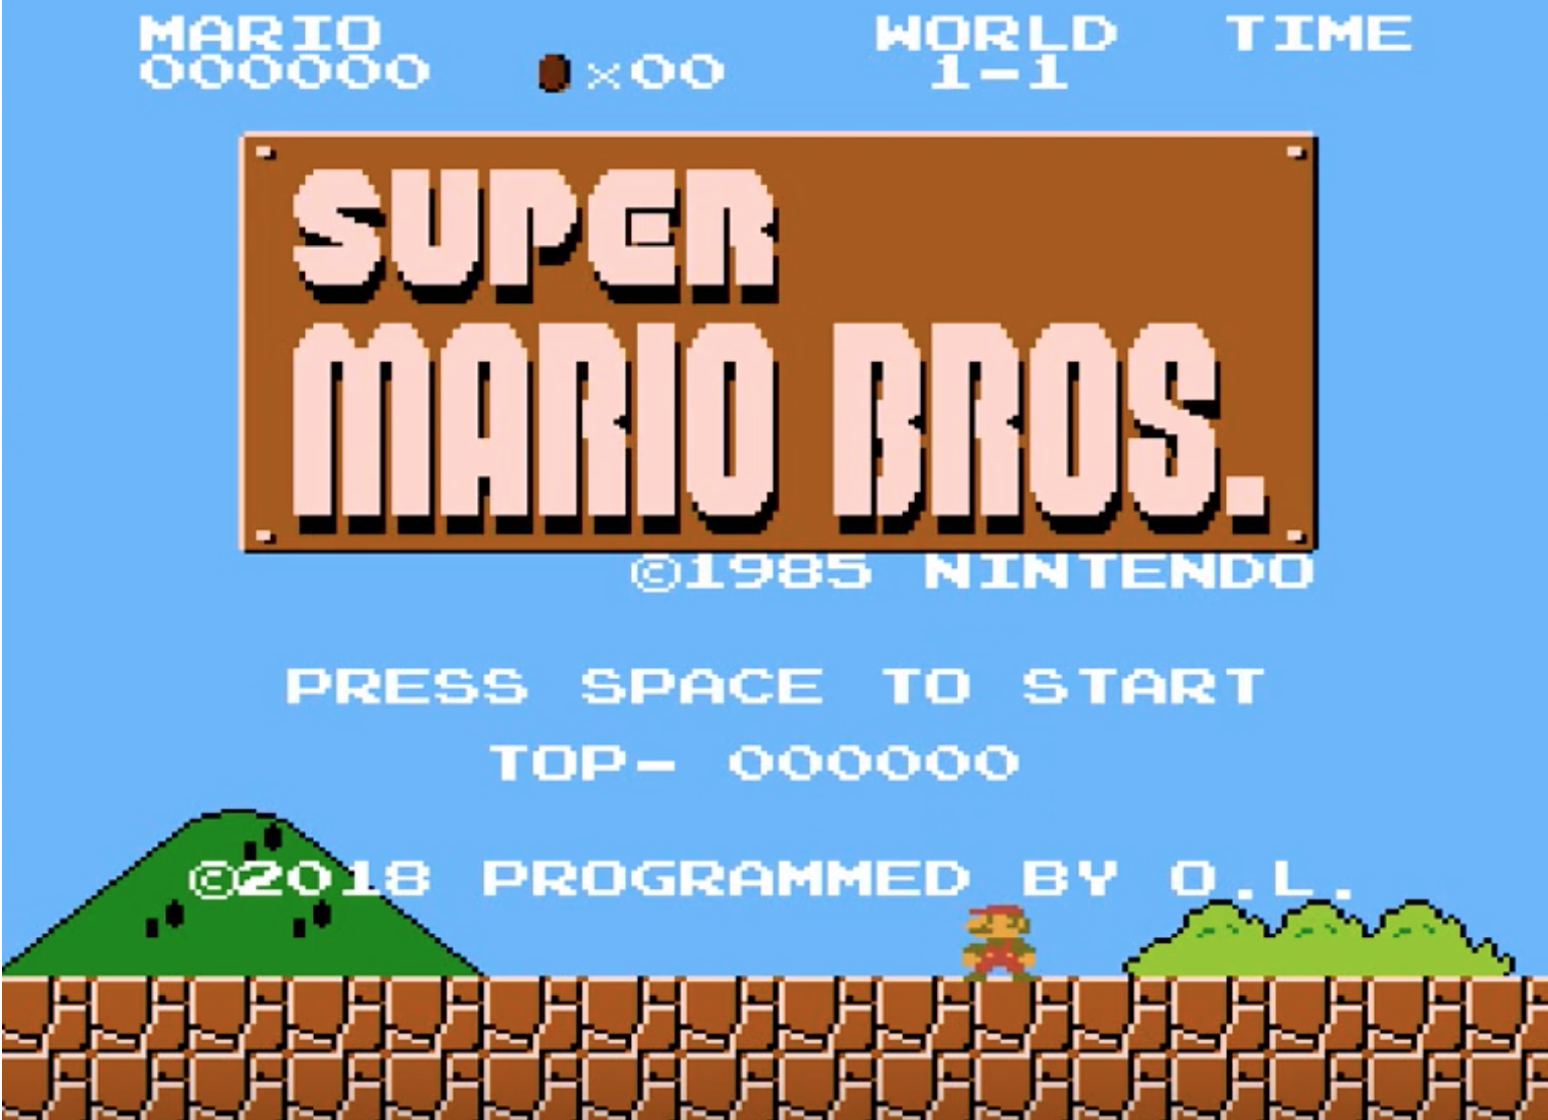
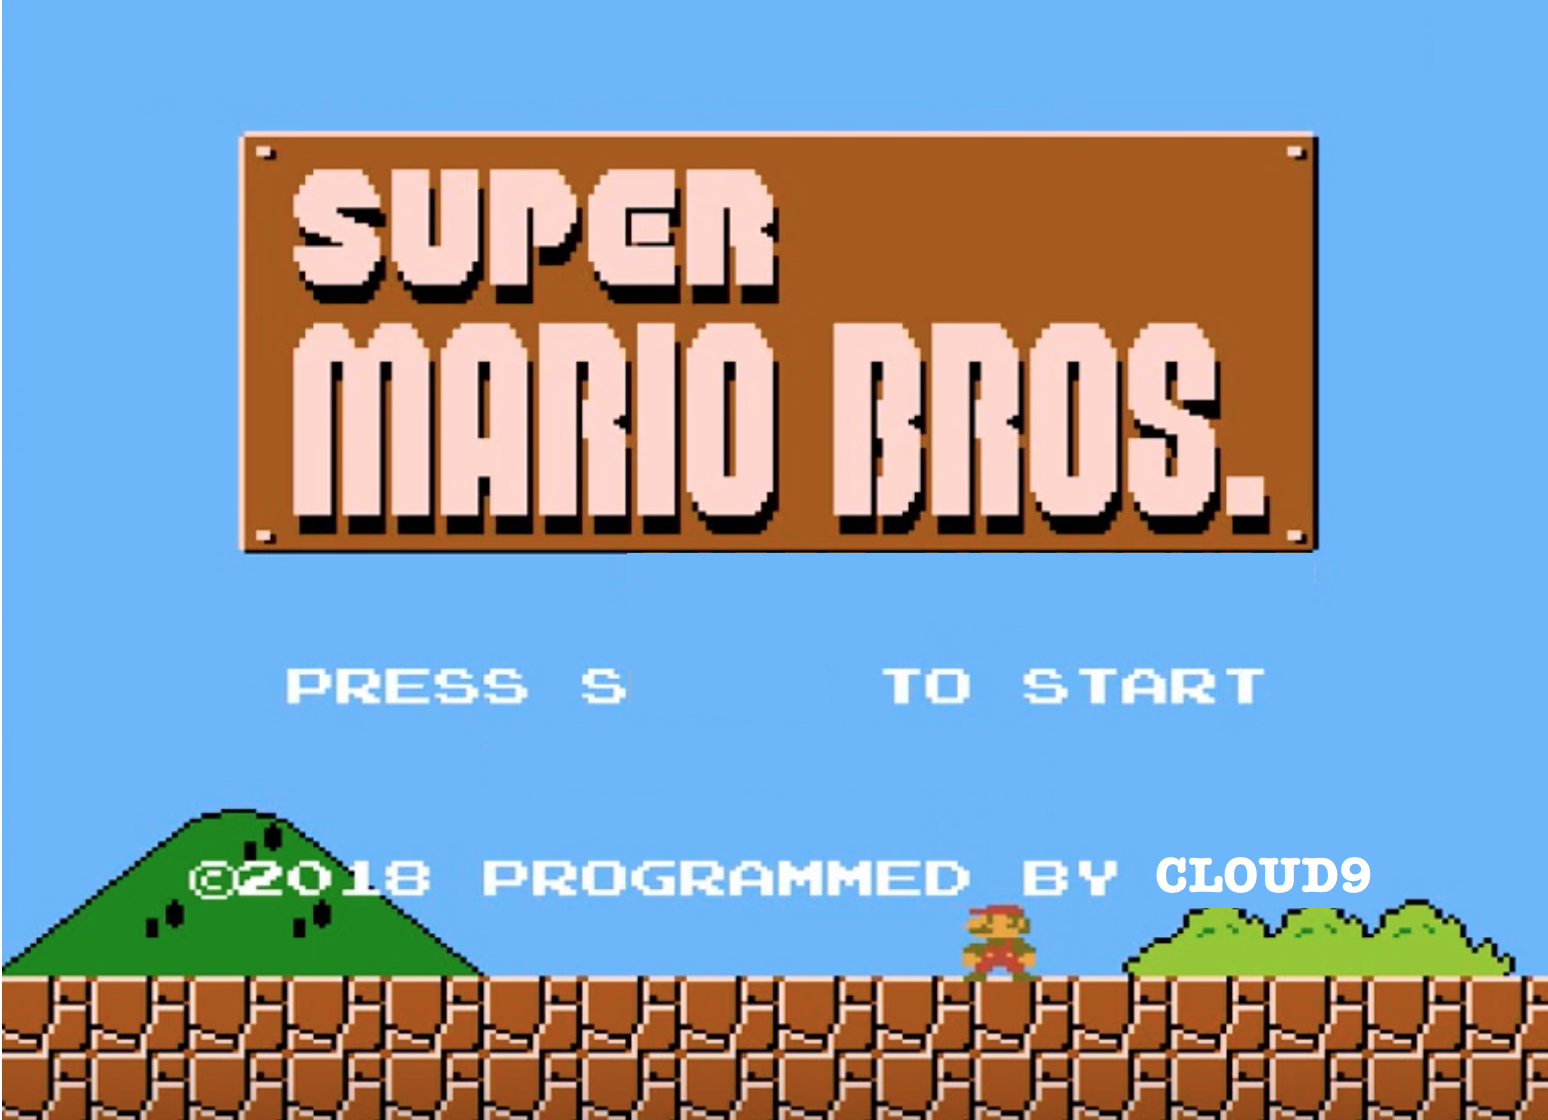
Needed to pull so tho im working on the menu and the sounds rn

diff --git a/src/starter/Mario.java b/src/starter/Mario.java
@@ -32,13 +32,16 @@ public class Mario extends GraphicsProgram {
 	private GRect mortApple = new GRect(2000,550,100,100);
 	private static final String JUMP_SOUND ="jump.mp3";
 	private static final String GAME_SOUND ="mario-game.mp3";
-	private static final String IMMORTALITY_SOUND ="mario-immortality.mp3";
+	private static final String IMMORTALITY_SOUND ="r2d2.mp3";
 	private static final String GAME_OVER_SOUND ="mario-gameover.mp3";
+	public static final String lABEL_FONT = "Arial-Bold-22";
 	private int gamescore = 0;
 	private int gametime = 0;
 	private GLabel GameScore;
 	private GLabel GameTime;
 	
+	
+
 	//	String picture = "hello";
 	//	private GImage imageIn = new GImage(picture,0,0);
 	//	private GImage imageDel = new GImage(picture,0,0);
@@ -64,7 +67,7 @@ public class Mario extends GraphicsProgram {
 	public boolean collision, Right, Left, Top, Bottom;
 
 	private GRect Mario;
-	private GImage MarioImgRight, MarioImgLeft;
+	private GImage MarioImgRight, MarioImgLeft, Menu;
 
 	public void init() {
 		setSize(PROGRAM_WIDTH, PROGRAM_HEIGHT);
@@ -136,63 +139,46 @@ public class Mario extends GraphicsProgram {
 	}
 
 	public void run() {
-
+		Menu = new GImage("menu.png", 0, 0);
+		Menu.setSize(850, 600);
+		add(Menu);
+		
+	}
+	
+	public void maingame()
+	{
 		InitilizeMario(global.XAXIS, global.YAXIS, WIDTH, HEIGHT, global.THICKNESS);
-
-		System.out.print(global.horizVelocity);
-
 		marioGraphics();
-
-
 		level.level1();
-
 		levelSpawn();
-
 		gumbaSpawn();
 		playGameSound();
-		gap.setColor(Color.BLACK);
-		gap.setFillColor(Color.BLACK);
-		gap.setFilled(true);
-
-		gap1.setColor(Color.BLACK);
-		gap1.setFillColor(Color.BLACK);
-		gap1.setFilled(true);
-
-		gap2.setColor(Color.BLACK);
-		gap2.setFillColor(Color.BLACK);
-		gap2.setFilled(true);
 		//immortality apple graphics (not done)
 		mortApple.setColor(Color.RED);
 		mortApple.setFillColor(Color.red);
 		mortApple.setFilled(true);
-
-
-
 		add(level.flagImage);
 		add(level.castleImage);
-
-		add(gap);
-		add(gap1);
-		add(gap2);
 		GLabel score = new GLabel("Score");
 		score.setLocation(50, 50);
+		score.setFont(lABEL_FONT);
+		score.setColor(Color.WHITE);
 		add(score);
 		GLabel time = new GLabel("Time(ms)");
 		time.setLocation(740, 50);
+		time.setColor(Color.WHITE);
+		time.setFont(lABEL_FONT);
 		add(time);
 		gameTime();
 		gameScore();
 		t.start();
-		
 		addKeyListeners();
-		
-
-			message.setLocation(3700, 235);
-			message.setColor(Color.BLACK);
-			add(message);
+		message.setLocation(3700, 235);
+		message.setColor(Color.BLACK);
+		add(message);
 	}
 
- 
+
 
 	public void imageIn(GImage imageIn)
 	{
@@ -206,28 +192,26 @@ public class Mario extends GraphicsProgram {
 		remove(imageDel);
 		t.start();
 	}
-	
-	
+
+
 	//	
 	//	public void setPic(String setPicture)
 	//	{
 	//		picture = setPicture;
 	//	}
-	
+
 
 
 	// is called after every milisecond and moves the mario and the platform
 	@Override
 	public void actionPerformed(ActionEvent e) {
-
-		remove(GameTime);
 		gametime = gametime + 10;		
-		gameTime();
+		GameTime.setLabel(Integer.toString(gametime));
 		if(Mario.getY()>650)
 		{
 			marioDied();
 		}
-		
+
 		for (int a = 0; a < level.levelPlatform.length; a++) {
 			collision(level.levelPlatform[a]);	
 		}
@@ -275,9 +259,8 @@ public class Mario extends GraphicsProgram {
 					gap1.move(-global.horizVelocity, 0);
 					gap2.move(-global.horizVelocity, 0);
 					message.move(-global.horizVelocity, 0);
-					remove(GameScore);
 					gamescore = gamescore + 1;
-					gameScore();
+					GameScore.setLabel(Integer.toString(gamescore));
 					for(int i = 0; i < Platimg.size(); i++)
 					{
 						Platimg.get(i).move(-global.horizVelocity, 0);
@@ -371,21 +354,25 @@ public class Mario extends GraphicsProgram {
 		System.out.print(global.vertVelocity);
 	}
 
-		
+
 	public void gameTime()
 	{
 		GameTime = new GLabel(Integer.toString(gametime));
-		GameTime.setLocation(750, 63);
+		GameTime.setLocation(750, 67);
+		GameTime.setFont(lABEL_FONT);
+		GameTime.setColor(Color.WHITE);
 		add(GameTime);
 	}
-	
+
 	public void gameScore()
 	{
 		GameScore = new GLabel(Integer.toString(gamescore));
-		GameScore.setLocation(60, 63);
+		GameScore.setLocation(60, 67);
+		GameScore.setFont(lABEL_FONT);
+		GameScore.setColor(Color.WHITE);
 		add(GameScore);
 	}
-	
+
 	// Makes the Mario to not be able to move when it touches a platform
 	public void collision(Platform[] p) {
 		for (int i = 0; i < p.length; i++) {
@@ -523,6 +510,9 @@ public class Mario extends GraphicsProgram {
 					global.vertVelocity -= global.jumpSpeed;
 				}
 			}
+		} else if(e.getKeyCode() == KeyEvent.VK_S) {
+			remove(Menu);
+			maingame();
 		}
 
 	}

diff --git a/src/starter/MainApplication.java b/src/starter/MainApplication.java
@@ -20,7 +20,7 @@ public class MainApplication extends GraphicsApplication {
 
 	public void run() {
 		somePane = new SomePane(this);
-		menu = new MenuPane(this);
+//		menu = new MenuPane(this);
 		switchToMenu();
 		
 	}
